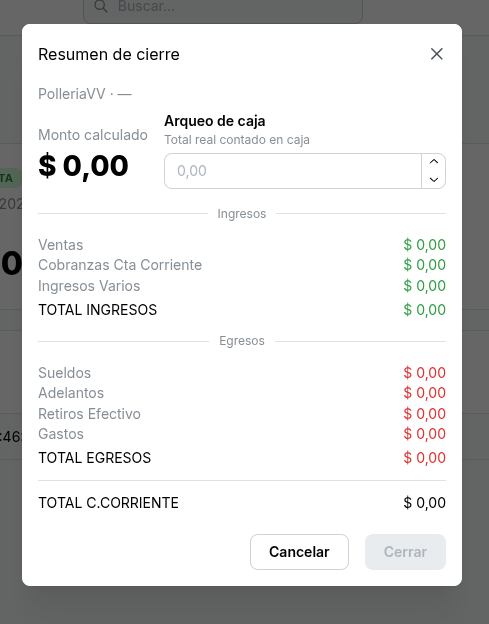
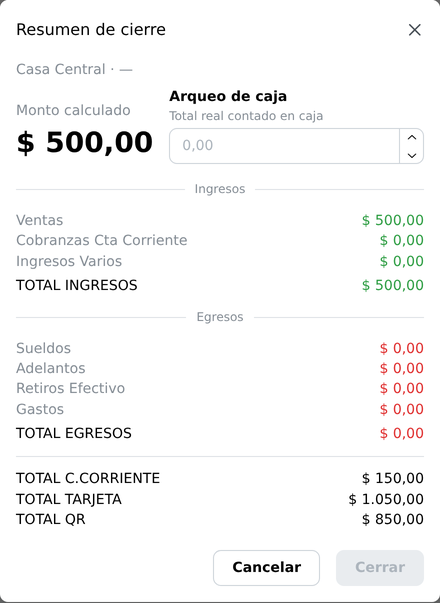
docs: documentar QR, selector de Banco y nuevos totales de cierre en el manual
Sección "Cobrar una venta": agrega QR como quinto medio de pago,
explica que Documento y Banco son obligatorios ahí (a diferencia de
Transferencia, donde son opcionales) y que el selector de Banco es el
mismo catálogo para los dos medios. Agrega un tip sobre cómo cargar un
banco nuevo (Caja → Bancos).

Sección "Abrir y cerrar la caja": menciona los totales de Tarjeta y QR
que ahora trae el Resumen de cierre (y Transferencia en el ticket
impreso). Actualiza la captura con el resumen ya mostrando esos
montos.

Atajos de teclado: agrega la fila de F5 (panel de QR).

De paso se agrega docs/manual/cobrar-venta.png, que la sección 4 ya
referenciaba pero nunca se había subido (quedaba roto).

Claude-Session: https://claude.ai/code/session_01JrgD7irwkFXqekHqi53mDW

diff --git a/docs/manual/manual-mostrador.html b/docs/manual/manual-mostrador.html
@@ -341,9 +341,10 @@
     <p class="lead">Desde el listado de ventas, tocá <span class="field">Cobrar</span> en la venta que corresponda.</p>
 
     <ol>
-      <li>Elegí el medio de pago tocando su botón (<strong>Efectivo</strong>, <strong>Tarjeta</strong>, <strong>Cta. corriente</strong> o <strong>Transferencia</strong>) — cada uno tiene marcado abajo su atajo de teclado.</li>
+      <li>Elegí el medio de pago tocando su botón (<strong>Efectivo</strong>, <strong>Tarjeta</strong>, <strong>Cta. corriente</strong>, <strong>Transferencia</strong> o <strong>QR</strong>) — cada uno tiene marcado abajo su atajo de teclado.</li>
       <li>Se abre un panel (una ventana, si es Tarjeta) con el importe ya sugerido según el saldo pendiente. Ajustalo si hace falta y tocá <span class="field">Agregar</span>.</li>
       <li>En <strong>Efectivo</strong> podés cargar además "Paga con" para que el sistema calcule el vuelto solo.</li>
+      <li>En <strong>Transferencia</strong> y <strong>QR</strong> podés elegir el <span class="field">Banco</span> de una lista desplegable (es el mismo catálogo para los dos). En <strong>QR</strong>, además, el <span class="field">Documento del titular</span> y el <span class="field">Banco</span> son obligatorios: el botón <span class="field">Agregar</span> queda deshabilitado hasta completarlos.</li>
       <li>El pago queda en la lista de <strong>Pagos cargados</strong>. Si te equivocaste, tocá el ícono de basura de esa fila para quitarlo.</li>
       <li>Se puede combinar más de un medio de pago, o repetir el mismo, hasta cubrir el total exacto.</li>
       <li>El panel de la derecha va mostrando cuánto falta. Cuando el cobro queda completo, los botones de método de pago se deshabilitan solos.</li>
@@ -351,12 +352,17 @@
     </ol>
 
     <div class="shot-img">
-      <img src="cobrar-venta.png" alt="Pantalla de cobro de venta, con el panel de Cuenta corriente abierto">
+      <img src="cobrar-venta.png" alt="Pantalla de cobro de venta, con el panel de QR abierto y un banco elegido">
     </div>
 
     <div class="callout">
       <span class="c-label">Importante</span>
       <p>Mientras lo cargado no cubra exactamente el total, el botón <span class="field">Confirmar cobro</span> queda deshabilitado.</p>
+    </div>
+
+    <div class="callout tip">
+      <span class="c-label">Tip</span>
+      <p>Si el banco que necesitás no aparece en la lista de <span class="field">Banco</span>, un administrador lo puede agregar desde <span class="path">Caja → Bancos</span>.</p>
     </div>
   </section>
 
@@ -475,7 +481,7 @@
     </div>
 
     <h3>Cerrar</h3>
-    <p>Al terminar el turno, tocá <span class="field">Cerrar caja</span>. Se abre el <strong>Resumen de cierre</strong>, con los ingresos, los egresos y el total de cuenta corriente del turno.</p>
+    <p>Al terminar el turno, tocá <span class="field">Cerrar caja</span>. Se abre el <strong>Resumen de cierre</strong>, con los ingresos, los egresos y el total cobrado por cuenta corriente, tarjeta y QR del turno (el ticket impreso de cierre suma además el total por transferencia).</p>
     <ol>
       <li>El resumen muestra el <span class="field">Monto calculado</span> (lo que el sistema espera encontrar según los movimientos cargados).</li>
       <li>Contá el efectivo real de la caja y cargalo en <span class="field">Arqueo de caja</span>.</li>
@@ -494,7 +500,7 @@
     </div>
 
     <div class="shot-img">
-      <img src="cierre-caja.png" alt="Resumen de cierre de caja, con Monto calculado, Arqueo de caja, Ingresos y Egresos">
+      <img src="cierre-caja.png" alt="Resumen de cierre de caja, con Monto calculado, Arqueo de caja, Ingresos, Egresos y los totales de Cta. corriente, Tarjeta y QR">
     </div>
 
     <div class="callout">
@@ -577,6 +583,7 @@
           <tr><td><kbd>F1</kbd></td><td>Cobrar venta</td><td>Abre el panel de Efectivo.</td></tr>
           <tr><td><kbd>F2</kbd></td><td>Cobrar venta</td><td>Abre la ventana de Tarjeta.</td></tr>
           <tr><td><kbd>F3</kbd></td><td>Cobrar venta</td><td>Abre el panel de Cuenta corriente.</td></tr>
+          <tr><td><kbd>F5</kbd></td><td>Cobrar venta</td><td>Abre el panel de QR.</td></tr>
           <tr><td><kbd>F6</kbd></td><td>Cobrar venta</td><td>Abre el panel de Transferencia.</td></tr>
           <tr><td><kbd>F4</kbd></td><td>Cobrar venta</td><td>Confirma el cobro (si ya está completo).</td></tr>
         </tbody>
